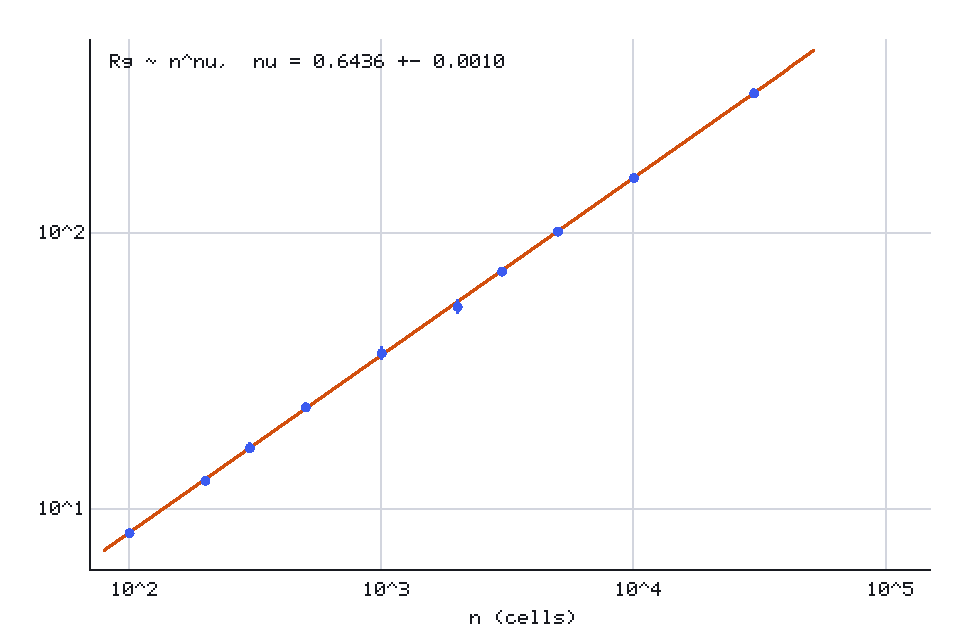
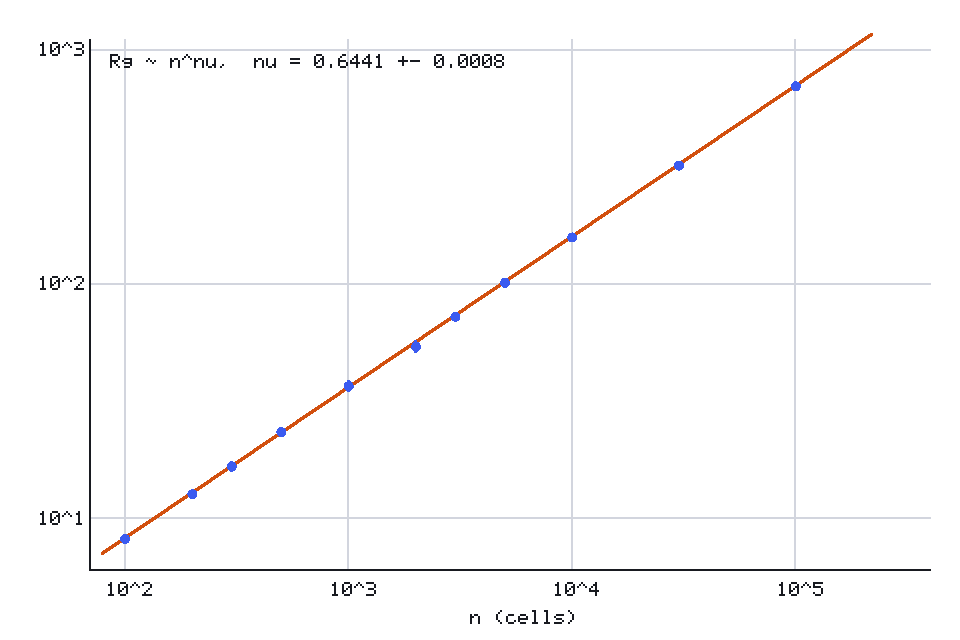
nu=0.6441(8) over n=100..1e5; asphericity 0.392(22); 1.6M launcher staged
Claude-Session: https://claude.ai/code/session_01BdZXvfVJQPPr33UmELMrzC

diff --git a/python/plotpng.py b/python/plotpng.py
@@ -86,8 +86,8 @@ def main(out):
     a, nu, snu = wls_fit(pts)
     W, H = 960, 640
     L, R, T, B = 90, 30, 40, 70
-    x0, x1 = math.log10(70), math.log10(150000)
-    y0, y1 = math.log10(6), math.log10(500)
+    x0, x1 = math.log10(70), math.log10(400000)
+    y0, y1 = math.log10(6), math.log10(1100)
     X = lambda n: L + (math.log10(n) - x0) / (x1 - x0) * (W - L - R)
     Y = lambda v: H - B - (math.log10(v) - y0) / (y1 - y0) * (H - T - B)
     cv = Canvas(W, H)
@@ -95,14 +95,14 @@ def main(out):
     for e in range(2, 6):
         cv.line(X(10**e), T, X(10**e), H - B, GRID)
         cv.text(X(10**e) - 18, H - B + 12, f"10^{e}", INK)
-    for e in (1, 2):
+    for e in (1, 2, 3):
         cv.line(L, Y(10**e), W - R, Y(10**e), GRID)
         cv.text(L - 52, Y(10**e) - 7, f"10^{e}", INK)
     # frame
     cv.line(L, H - B, W - R, H - B, INK)
     cv.line(L, T, L, H - B, INK)
     # fit line clipped to plot
-    nlo, nhi = 80, 52000
+    nlo, nhi = 80, 220000
     cv.line(X(nlo), Y(math.exp(a) * nlo**nu), X(nhi), Y(math.exp(a) * nhi**nu), ACC, 2)
     for n, m, se in pts:
         cv.line(X(n), Y(m - 2 * se), X(n), Y(m + 2 * se), PT, 2)

diff --git a/python/svgplot.py b/python/svgplot.py
@@ -18,6 +18,7 @@ def collect():
         (5000, ["../results/prod/n5000_bar.csv", "../results/prod/n5000_rect.csv"]),
         (10000, ["../results/prod/n10000_bar.csv", "../results/prod/n10000_rect.csv"]),
         (30000, ["../results/prod/n30000_bar.csv", "../results/prod/n30000_rect.csv"]),
+        (100000, sorted(__import__("glob").glob("../results/prod/n100000_*.csv"))),
     ]
     pts = []
     for n, paths in groups:

diff --git a/README.md b/README.md
@@ -97,7 +97,7 @@ proposal is accepted.
 | leaf-to-gap probe: largest almost-cycle (156/108 cells) in n=10⁴ snapshots | legal, probability (1/n)(1/\|P\|), invariants pass |
 | detailed balance on captured cycle-seal/breach transitions (n=10⁴) | exact: \|P\| identical both ways; implementation audit: removability boundary exhaustive 0 mismatches, perimeter set == from-scratch, destination uniform (p=0.11–0.83) |
 | end-to-end P(A→A′) vs P(A′→A), 1.2×10¹² unmodified-step trials each | seal: 10099 vs 10047 hits (z=+0.4); breach: 9840 vs 10118 (z=−2.0); all four consistent with exact 1/(n\|P\|) |
-| ν fit, n = 100..30000 | 0.6436 ± 0.0010 stat ± 0.001 sys (corrections-to-scaling scan Δ=0.5..1.5: ν=0.6436–0.6447; expect ≈ 0.6408) |
+| ν fit, n = 100..100000 | 0.6441 ± 0.0008 stat; previously 0.6436 ± 0.0010 stat ± 0.001 sys (corrections-to-scaling scan Δ=0.5..1.5: ν=0.6436–0.6447; expect ≈ 0.6408) |
 | PERM (independent non-MCMC sampler): a₁..a₁₀ vs A001168 | within ~0.5% statistical |
 | PERM λ̂ | ≈ 4.01–4.08 (Klarner 4.0626) |
 | PERM ⟨R_g²⟩ vs MCMC: n=10 (exact) / 100 / 300 / 1000 | 3.1794±27 vs 3.1801 exact; z = 1.0 / 0.4 / pooled 1380±37 vs 1339–1382 |

diff --git a/docs/NOTES.md b/docs/NOTES.md
@@ -139,8 +139,8 @@ from a_k ~ Cλᵏ/k^θ over k=30..180 (Klarner λ = 4.0626…, theory θ = 1);
 - amplitude: ⟨R_g⟩ ≈ 0.422·n^0.6436.
 - λ = 4.058 (PERM; exact 4.0626…), θ ≈ 0.93 (theory 1).
 - cycle density → 0.073 per cell; perimeter density → 1.195 per cell.
-- asphericity ⟨(λ₁−λ₂)²/(λ₁+λ₂)²⟩ ≈ 0.35–0.42 (few-sample; the asph
-  column in newer time series will sharpen this).
+- asphericity ⟨(λ₁−λ₂)²/(λ₁+λ₂)²⟩ = 0.392 ± 0.022 (n=10⁵ equilibrium
+  time series, 8 segments).
 
 ## 9. Performance summary
 
